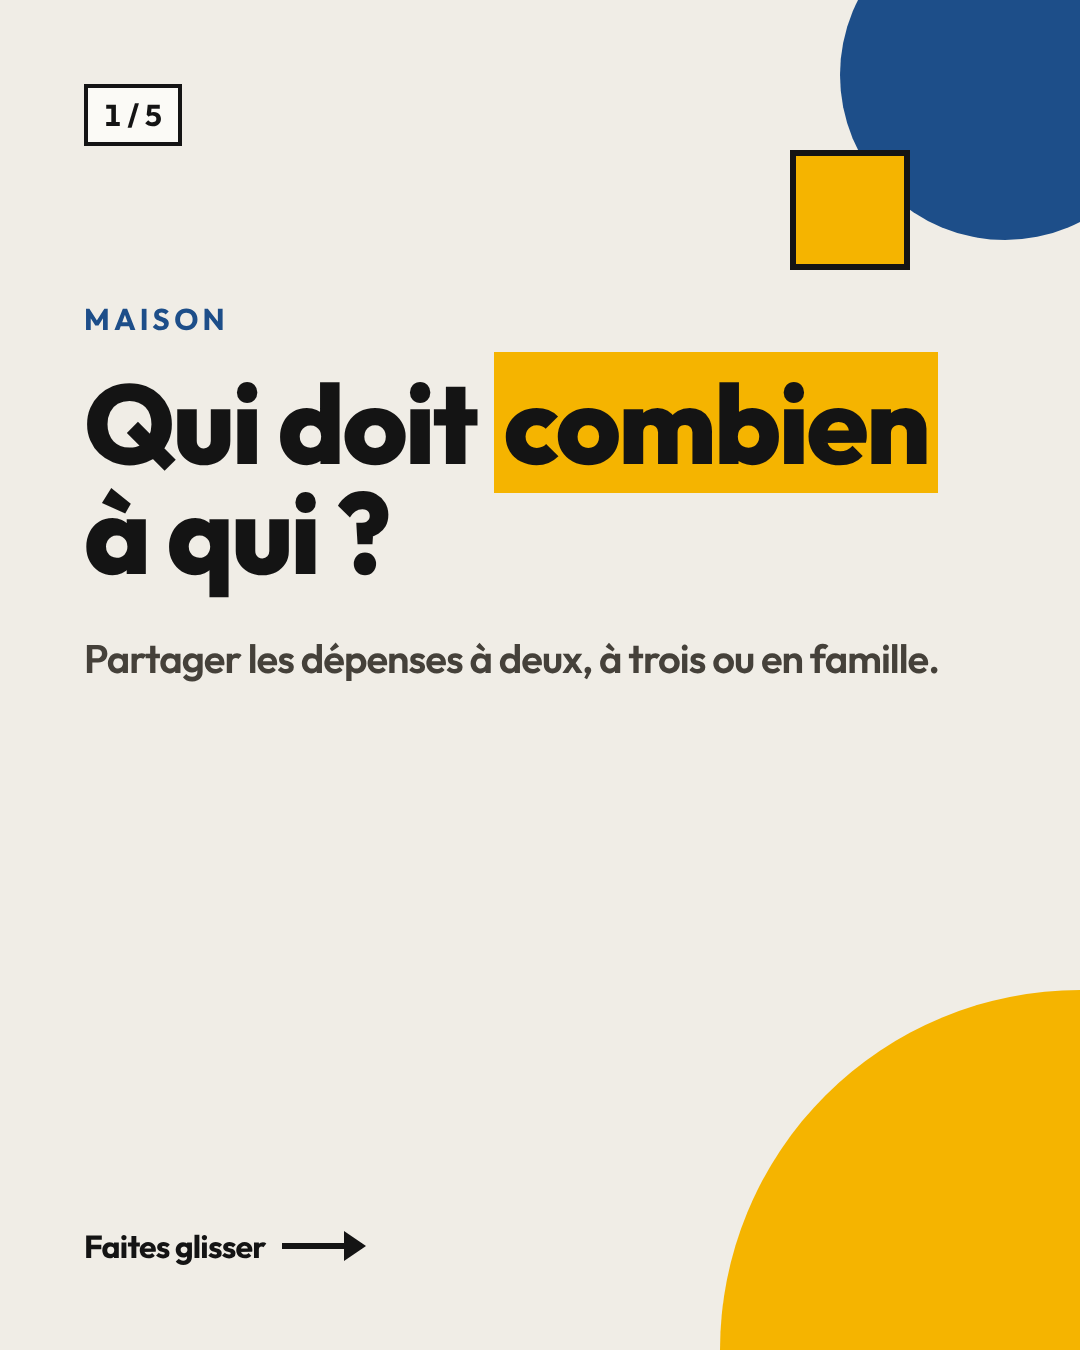
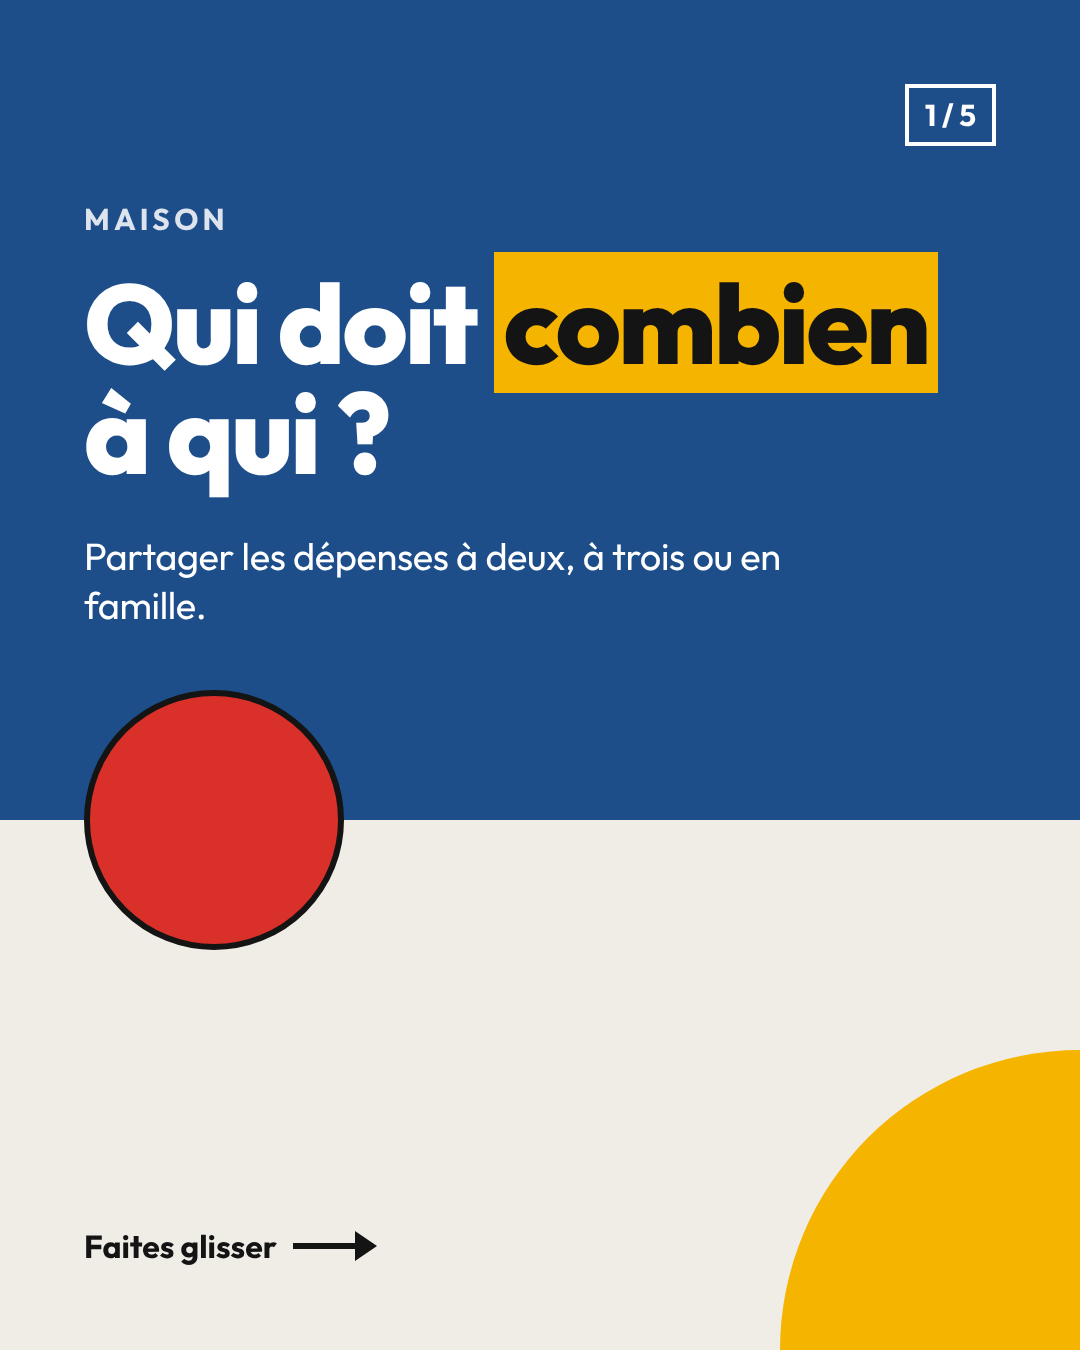
Renommage : visuels et vidéos programmés aux nouveaux noms (#190)
Claude-Session: https://claude.ai/code/session_0183EW52FH8pgsv7Wx1MwgP4

diff --git a/docs/videos/journal.md b/docs/videos/journal.md
@@ -54,3 +54,11 @@ Correspondance YouTube Shorts (16/11/2026) : 001 YT-01 (publié le 16/11 à 22:2
 | 017 | 2026-11-17 | HBT | démonstration (privée) | Réviser chaque jour sans casser la série (vue téléphone : session de révision cochée, série 12 → 13 jours) | `scenarios/017-habitudes-serie-odelia.mjs` | 6,3 s (muette) | non déposée | non programmée | non programmée | Privée : vidéo type d'utilisation pour le partenariat Odélia (Yuzu Agency), version brute seule (sans texte, musique ni son), moteur en temps virtuel du 17/11/2026 ; jamais publiée |
 | 018 | 2026-11-19 (v2) | BDG (essai gratuit) | processus | Essayer avant d'acheter : 14 jours gratuits, sans carte, données reprises à l'achat (templates vie perso ; parcours réel /essai/ → Budget du foyer → « Essai terminé » 14 jours plus tard → « J'ai acheté » du bandeau avec une clé de test du serveur local). v2 demandée par Quentin le 19/11 : « Templates vie perso » à l'écran, aucune date lisible (cadrages arrêtés avant « jusqu'au … », plan large sur le code), musique Professional Momentum ; v1 (33 s, Corporate) à la corbeille | `scenarios/018-essai-gratuit.mjs` | 28,2 s | [Drive](https://drive.google.com/file/d/1ecu5El77R6MkqRK1OdxzEDauXqqq9uLg/view) | [LI-156](https://www.linkedin.com/feed/update/urn:li:ugcPost:7529107240838930432) · 2026-11-19 10:04 | [IG-153](https://www.instagram.com/qmengineering/reel/Df6uheiuJoo/) · 2026-11-19 10:11 | Publié le 19/11 (publication immédiate demandée par Quentin) : [YT-41](https://youtube.com/shorts/Gdk8pkhVj6Y) 10:07, [TikTok](https://www.tiktok.com/@qme.qm.engineering/video/7709808557444828438) 10:14 |
 | 020 | 2026-11-20 | BCM | fonctionnement | Compte joint : combien chacun doit-il verser ? (mode « compte commun » : 1 425,64 € à couvrir, 823,70 € / 617,93 € au prorata dont le forfait de Sami, « C'est fait » de Sami, solde estimé −383,13 € → 234,80 €) | `scenarios/020-budget-commun-compte-joint.mjs` | 20,0 s | [Drive](https://drive.google.com/file/d/1b4ZdZPNtgGXZR-RgGJ3qVTlHaenmdO-t/view) | LI-158 · 2026-12-05 17:30 | IG-156 · 2026-12-05 12:30 · YT-44 · 2026-12-05 12:00 | **Prêt** (pas Programmé) : le mode compte commun n'est pas en production ; passer les trois lignes à Programmé après la fusion de la PR. Numéro 020 : 019 est pris sur une autre branche (Compétition). |
+
+**Renommage du 20/11/2026 (Quentin : « Mon Budget », « Gestion Dépenses Communes »)** : vidéos 005 (36,7 s), 020 (20,0 s)
+et 012 (29,6 s) rendues de nouveau, piste audio vérifiée (`ffprobe`, AAC). Drive : originaux `2026-11-20_<nom>-renomme.mp4`
+dans « QME – Vidéos démo templates » (005 `1WvgZS7Bh64upggUjd1AJ53OeCY0yK5Dj`, 020 `1ruXVpCWENO2lh2KiMug9w-9TDtq2yCIN`,
+012 `1SJvhGeyCuKV2BRby_Pas6nm_t1h5oOye`) ; copies aux noms programmés (LI-150, LI-158, LI-153, IG-146, IG-156, IG-149 et
+couvertures Instagram) ; anciens fichiers renommés `…-ANCIEN-nom` (et un doublon `LI-158-budget-commun-video-ANCIEN-doublon.mp4`).
+YouTube : ID Drive de YT-09 `1gT2UzQ5rbdpgiebLgrfmrDaBNNMxppNu`, YT-38 `1BJfoUshPGN1hb7L-DxMDTH_2N4JZ1Ljt`,
+YT-44 `1NTqE2rejVmlJY0dhAxutjBOiAwtM8l8v`. Dates et statuts inchangés.

diff --git a/docs/templates/communication/journal-publications.md b/docs/templates/communication/journal-publications.md
@@ -16,3 +16,12 @@ contrôle de réserve sans production. Non publié (`/docs/*` en 404).
 
 | Date de création | Réseau | ID | Date de publication | Famille | Sujet / produit | Style | Format | Accroche | Doc | Statut |
 |---|---|---|---|---|---|---|---|---|---|---|
+
+**20/11/2026 · Renommage (« Mon Budget », « Gestion Dépenses Communes »)** : visuels programmés refaits et remplacés dans
+Drive (anciens fichiers renommés `…-ANCIEN-nom`) : IG-08 vues 3 et 4 (vue 1 : couverture retravaillée du 20/11 conservée),
+IG-159 vue 6, IG-160 vues 2 et 6, diaporamas TikTok `IG-08-budget-commun-tiktok.mp4`, `IG-159-mode-emploi-tiktok.mp4`,
+`IG-160-partage-tiktok.mp4`, images `LI-79-budget-commun.png` et `LI-82-budget.png` (couvertures des templates). Textes : 10 Docs
+remplacés (LI-79, LI-150, LI-153, LI-158, LI-63, IG-08, IG-149, IG-156, IG-160, IG-122), cellules F/J et description YT-09.
+Les sources `production/IG-159.html` et `IG-160.html` de la branche `claude/instagram-results-analysis-h6o7km` gardent
+l'ancien nom : à corriger avant sa fusion (« Budget commun » → « Gestion Dépenses Communes », « du Budget commun » → « de
+Gestion Dépenses Communes »).
